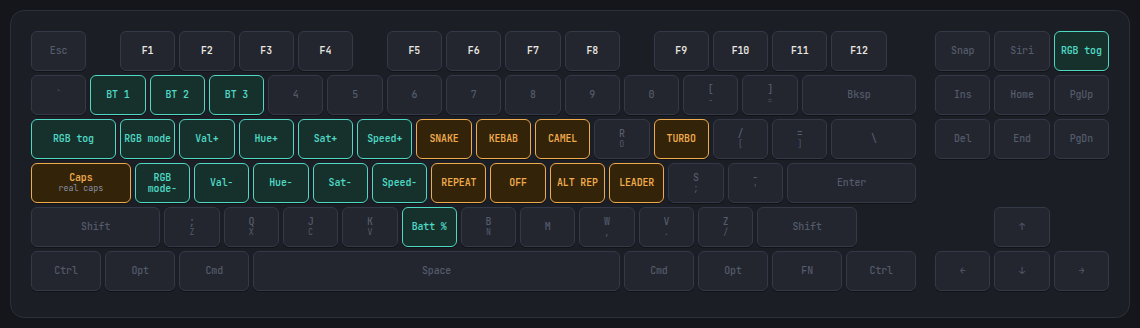
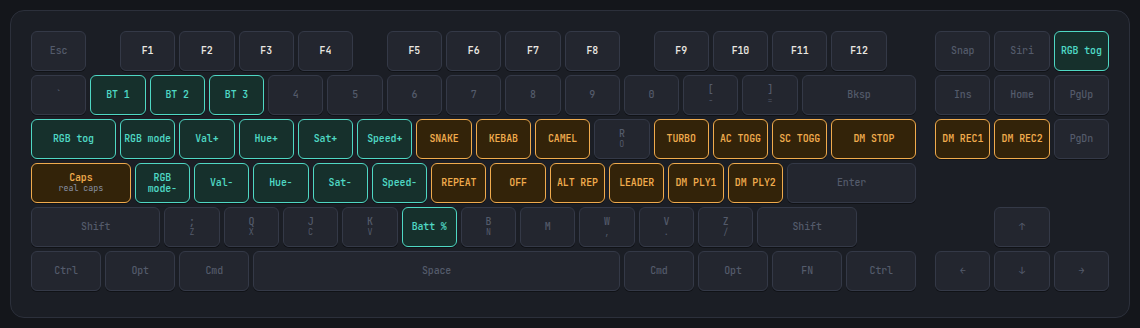
Update README and layer diagrams for Sentence Case, Autocorrect, Dynamic Macros

Changed region(s): [[0.5833, 0.3659, 0.9211, 0.6402]]

diff --git a/readme.md b/readme.md
@@ -50,6 +50,9 @@ a typed sequence:
 | **`Fn+L`**, then a sequence | Starts a Super Leader sequence. Currently defined: `B` `O` `O` `T` → reboot to bootloader (for flashing). Sequences live in [`keymaps/niko/super_leader.def`](keyboards/keychron/k8_pro/ansi/rgb/keymaps/niko/super_leader.def) — add more there. |
 | **`Fn+H`** | Repeat Key — replays the last keypress, including any modifiers held at the time. |
 | **`Fn+K`** | Alt Repeat Key — replays the last key's *alternate* action instead (e.g. repeating `C(KC_C)` gives `C(KC_V)`). |
+| **`Fn+Del`** / **`Fn+End`** | Start recording Dynamic Macro 1 / 2. |
+| **`Fn+\`** | Stop recording the macro currently being recorded. |
+| **`Fn+;`** / **`Fn+'`** | Play back Dynamic Macro 1 / 2. |
 
 ## Other enabled features
 
@@ -59,6 +62,9 @@ a typed sequence:
 - **Mouse Turbo Click** — `Fn+P`, hold for rapid clicks, double-tap to lock.
 - **xcase** — `Fn+Y`/`Fn+U`/`Fn+I` for snake/kebab/camelCase, `Fn+J` to turn off.
 - **PaletteFx (reactive)** — keypress-driven RGB, cycle palettes with `RM_HUEU`/`RM_HUED`.
+- **Sentence Case** — auto-capitalizes the first letter of a sentence; on by default, toggle with `Fn+]`.
+- **Autocorrect** — fixes common typos as you finish typing them (70-entry default dictionary);
+  off until enabled once with `Fn+[`, then the setting persists.
 
 ## Credits
 
